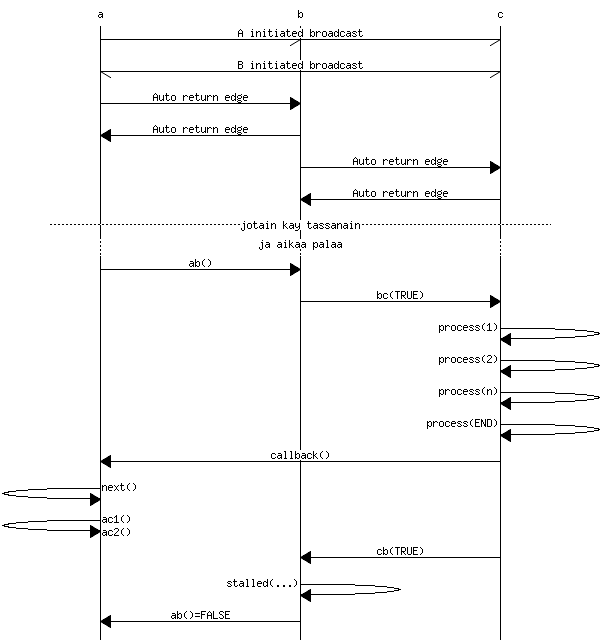
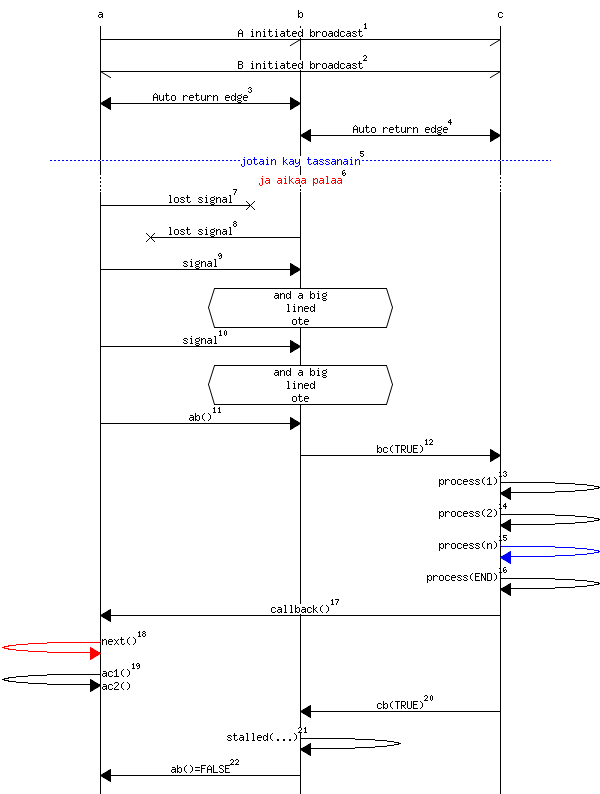
New tests

diff --git a/generators/mscgen.js b/generators/mscgen.js
@@ -32,8 +32,6 @@ function mscgen(yy) {
     var id=1;
     for (var i in yy.LINKS) {
         var l = yy.LINKS[i];
-        var t = getAttrFmt(l, 'label', ',label="{0}"') +
-            getAttrFmt(l, 'color', ',linecolor="{0}"');
         var lt;
         var lr = l.right;
         var ll = l.left;
@@ -52,8 +50,6 @@ function mscgen(yy) {
         //For GRAPH all edges are type --
         //but we could SET arrow type if we'd like
         var rightName = lr.getName();
-        if (t.trim() != "")
-            t = t.trim().substring(1);
 
         var dot = false;
         var dash = false;
@@ -66,6 +62,23 @@ function mscgen(yy) {
             broken = true;
         }
         var swap = false;
+        var attrs=[];
+        var label=getAttr(l,"label");
+        var color=getAttr(l,'color');
+        if (color){
+        	attrs.push('linecolor="'+color+'"');
+        }
+        var note="";
+        if (label){
+        	if( label.indexOf("::")!==-1){
+        		label=label.split("::");
+        		note=label[1].trim();
+        		attrs.push('label="'+label[0].trim()+'"');
+        	}else{
+        		attrs.push('label="'+label.trim()+'"');
+        	}
+        }
+        attrs.push('id="'+ id++ +'"');
         if (l.linkType.indexOf("<") !== -1 &&
             l.linkType.indexOf(">") !== -1) {
             //Broadcast type (<>)
@@ -102,26 +115,26 @@ function mscgen(yy) {
                 lt = "=>";
         } else if (dot) {
             //dotted
-            yy.result(getAttrFmt(l, 'label', '...[label="{0}"'+
-            	getAttrFmt(l,'color',',textcolor="{0}"')
-            	+',id="'+ id++ +'"];'));
+            if (color){
+            	attrs.push('textcolor="'+color+'"');
+            }
+	        yy.result("...["+attrs.join(",")+"];");
             continue;
         } else if (dash) {
             //dashed
-            yy.result(getAttrFmt(l, 'label', '---[label="{0}"'+
-            	getAttrFmt(l,'color',',textcolor="{0}"')
-            	+',id="'+ id++ +'"];'));
+            if (color){
+            	attrs.push('textcolor="'+color+'"');
+            }
+	        yy.result("---["+attrs.join(",")+"];");
             continue;
         } else {
             yy.result("ERROR: SHOULD NOT HAPPEN");
         }
-        if (t.trim() != "")
-            t = "[" + t + ",id=\""+ id++ +"\"]";
-        else
-        	//label needed, else ID wont show up..
-            t = '[label="",id="'+ id++ +'"]';
-            
-        yy.result(ll.getName() + lt + rightName + t + ";");
+        
+        yy.result(ll.getName() + lt + rightName + "["+attrs.join(",") + "];");
+        if (note!="")
+        	//yy.result(ll.getName() +' abox ' +lr.getName()+'[label="'+note+'"];');
+        	yy.result(lr.getName() +' abox ' +lr.getName()+'[label="'+note+'"];');
         //if (swap)
         //    yy.result(lr.getName() + lt + ll.getName() + t + ";");
     }

diff --git a/generators/seqdiag.js b/generators/seqdiag.js
@@ -26,12 +26,25 @@ function seqdiag(yy) {
     }
     for (var i in yy.LINKS) {
         var l = yy.LINKS[i];
-        var t = getAttrFmt(l, 'label', ',label="{0}"') +
-            getAttrFmt(l, 'color', ',color="{0}"');
+        var attrs=[];
         var lt;
         var lr = l.right;
         var ll = l.left;
 
+        var color=getAttr(l,'color');
+        if (color){
+        	attrs.push('color="'+color+'"');
+        }
+        var label=getAttr(l,'label');
+        if (label){
+        	if( label.indexOf("::")!==-1){
+        		label=label.split("::");
+        		attrs.push('note="'+label[1].trim()+'"');
+        		attrs.push('label="'+label[0].trim()+'"');
+        	}else{
+        		attrs.push('label="'+label.trim()+'"');
+        	}
+        }
         if (lr instanceof Group) {
             //just pick ONE Node from group and use lhead
             //TODO: Assuming it is Node (if Recursive groups implemented, it could be smthg else)
@@ -46,9 +59,6 @@ function seqdiag(yy) {
         //For GRAPH all edges are type --
         //but we could SET arrow type if we'd like
         var rightName = lr.getName();
-        if (t.trim() != "")
-            t = t.trim().substring(1);
-
         var dot = false;
         var dash = false;
         var broken=false;
@@ -57,7 +67,7 @@ function seqdiag(yy) {
         } else if (l.linkType.indexOf("-") !== -1) {
             dash = true;
         } else if (l.linkType.indexOf("/") !== -1) {
-            broken = true;
+        	attrs.push("failed");
         }
         if (l.linkType.indexOf("<") !== -1 &&
             l.linkType.indexOf(">") !== -1) {
@@ -99,10 +109,8 @@ function seqdiag(yy) {
         } else {
             yy.result("ERROR: SHOULD NOT HAPPEN");
         }
-        if (t.trim() != "")
-            t = "[" + t + (broken?",failed":"")+"]";
         //MUST HAVE whitespace at both sides of the "arrow"
-        yy.result(ll.getName() + " " + lt + " " + rightName + t + ";");
+        yy.result(ll.getName() + " " + lt + " " + rightName + "["+attrs.join(",") + "];");
     }
     yy.result("}");
 }
